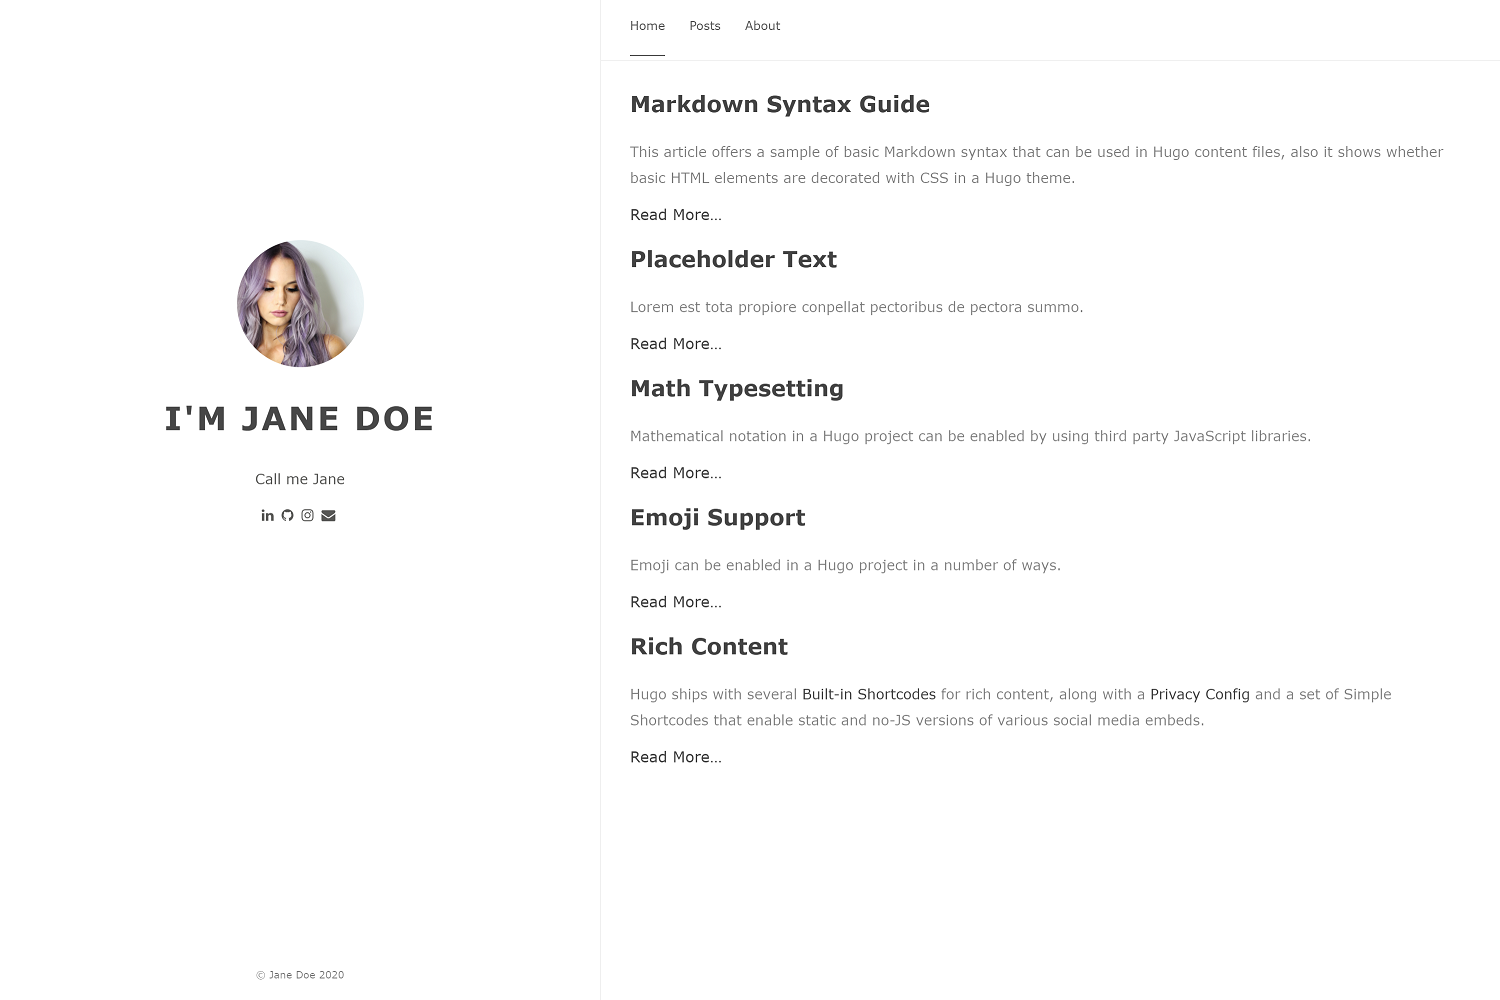
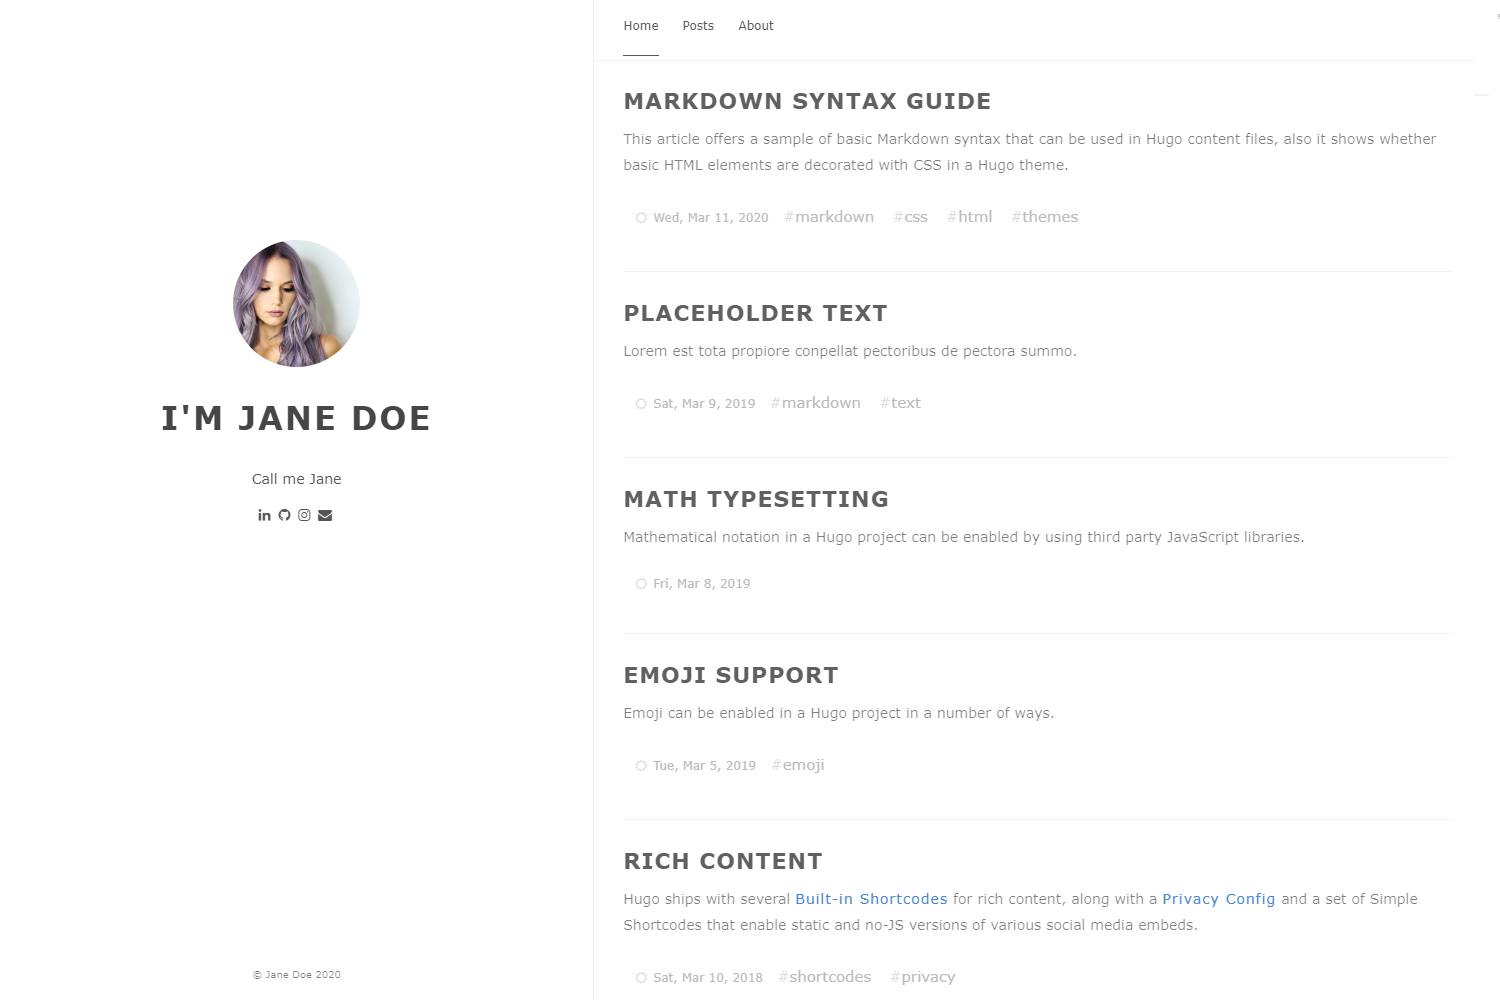
Updated Documentation and fixed another CSP issue
Closes #10

diff --git a/layouts/partials/sidebar.html b/layouts/partials/sidebar.html
@@ -1,7 +1,7 @@
 <div class="sidebar animated fadeInDown">
     <div class="logo-title">
       <div class="title">
-        <img src="{{ .Site.Params.profilePicture | absURL }}" alt="profile picture" style="width:127px;border-radius: 50%;">
+        <img src="{{ .Site.Params.profilePicture | absURL }}" alt="profile picture">
         <h3 title=""><a href="/">{{ .Site.Params.Title }}</a></h3>
         <div class="description">
           <p>{{ .Site.Params.description }}</p>

diff --git a/assets/css/style.css b/assets/css/style.css
@@ -225,6 +225,10 @@ a:hover, a:active {
 .sidebar .logo-title .logo {
   margin: 0 auto;
 }
+.sidebar .logo-title .title img {
+  width: 127px;
+  border-radius: 50%;
+}
 .sidebar .logo-title .title h3 {
   text-transform: uppercase;
   font-size: 2rem;

diff --git a/README.md b/README.md
@@ -7,7 +7,8 @@ Anatole is a beautiful minimalist two-column [hugo](https://gohugo.io/) theme ba
 ## Features
 Anatole's aims to be minimalistic and sleek, but still brings some great functionality.
 
-Features include:
+### Features include:
+
 - Profile picture and slogan
 - Navigation items
 - Pagination
@@ -18,6 +19,8 @@ Features include:
 - Fontawesome icons
 - Custom CSS (optional)
 - Medium like zoom for images
+- Compliant to strict CSP
+- Uses Hugo pipes to process assets
 
 ## Preview the exampleSite
 ```
@@ -112,6 +115,17 @@ Content-Security-Policy "
   script-src 'self';
   style-src 'self' stackpath.bootstrapcdn.com;
 "
+```
+If you want to configure the security headers for a site running on Netlify, you want to make sure you create a special `_headers` file in your sites static folder. The content might look like the following:
+```
+/*
+  X-Frame-Options: DENY
+  X-Clacks-Overhead: "GNU Terry Pratchett"
+  X-XSS-Protection: 1; mode=block
+  X-Content-Type-Options: nosniff
+  Referrer-Policy: same-origin
+  Content-Security-Policy:  base-uri 'self'; connect-src 'self'; default-src 'self'; frame-ancestors 'none'; font-src 'self' stackpath.bootstrapcdn.com; img-src 'self'; object-src 'none'; script-src 'self'; style-src 'self' stackpath.bootstrapcdn.com;
+  Strict-Transport-Security: max-age=63072000; includeSubDomains; preload
 ```
 
 ## License
